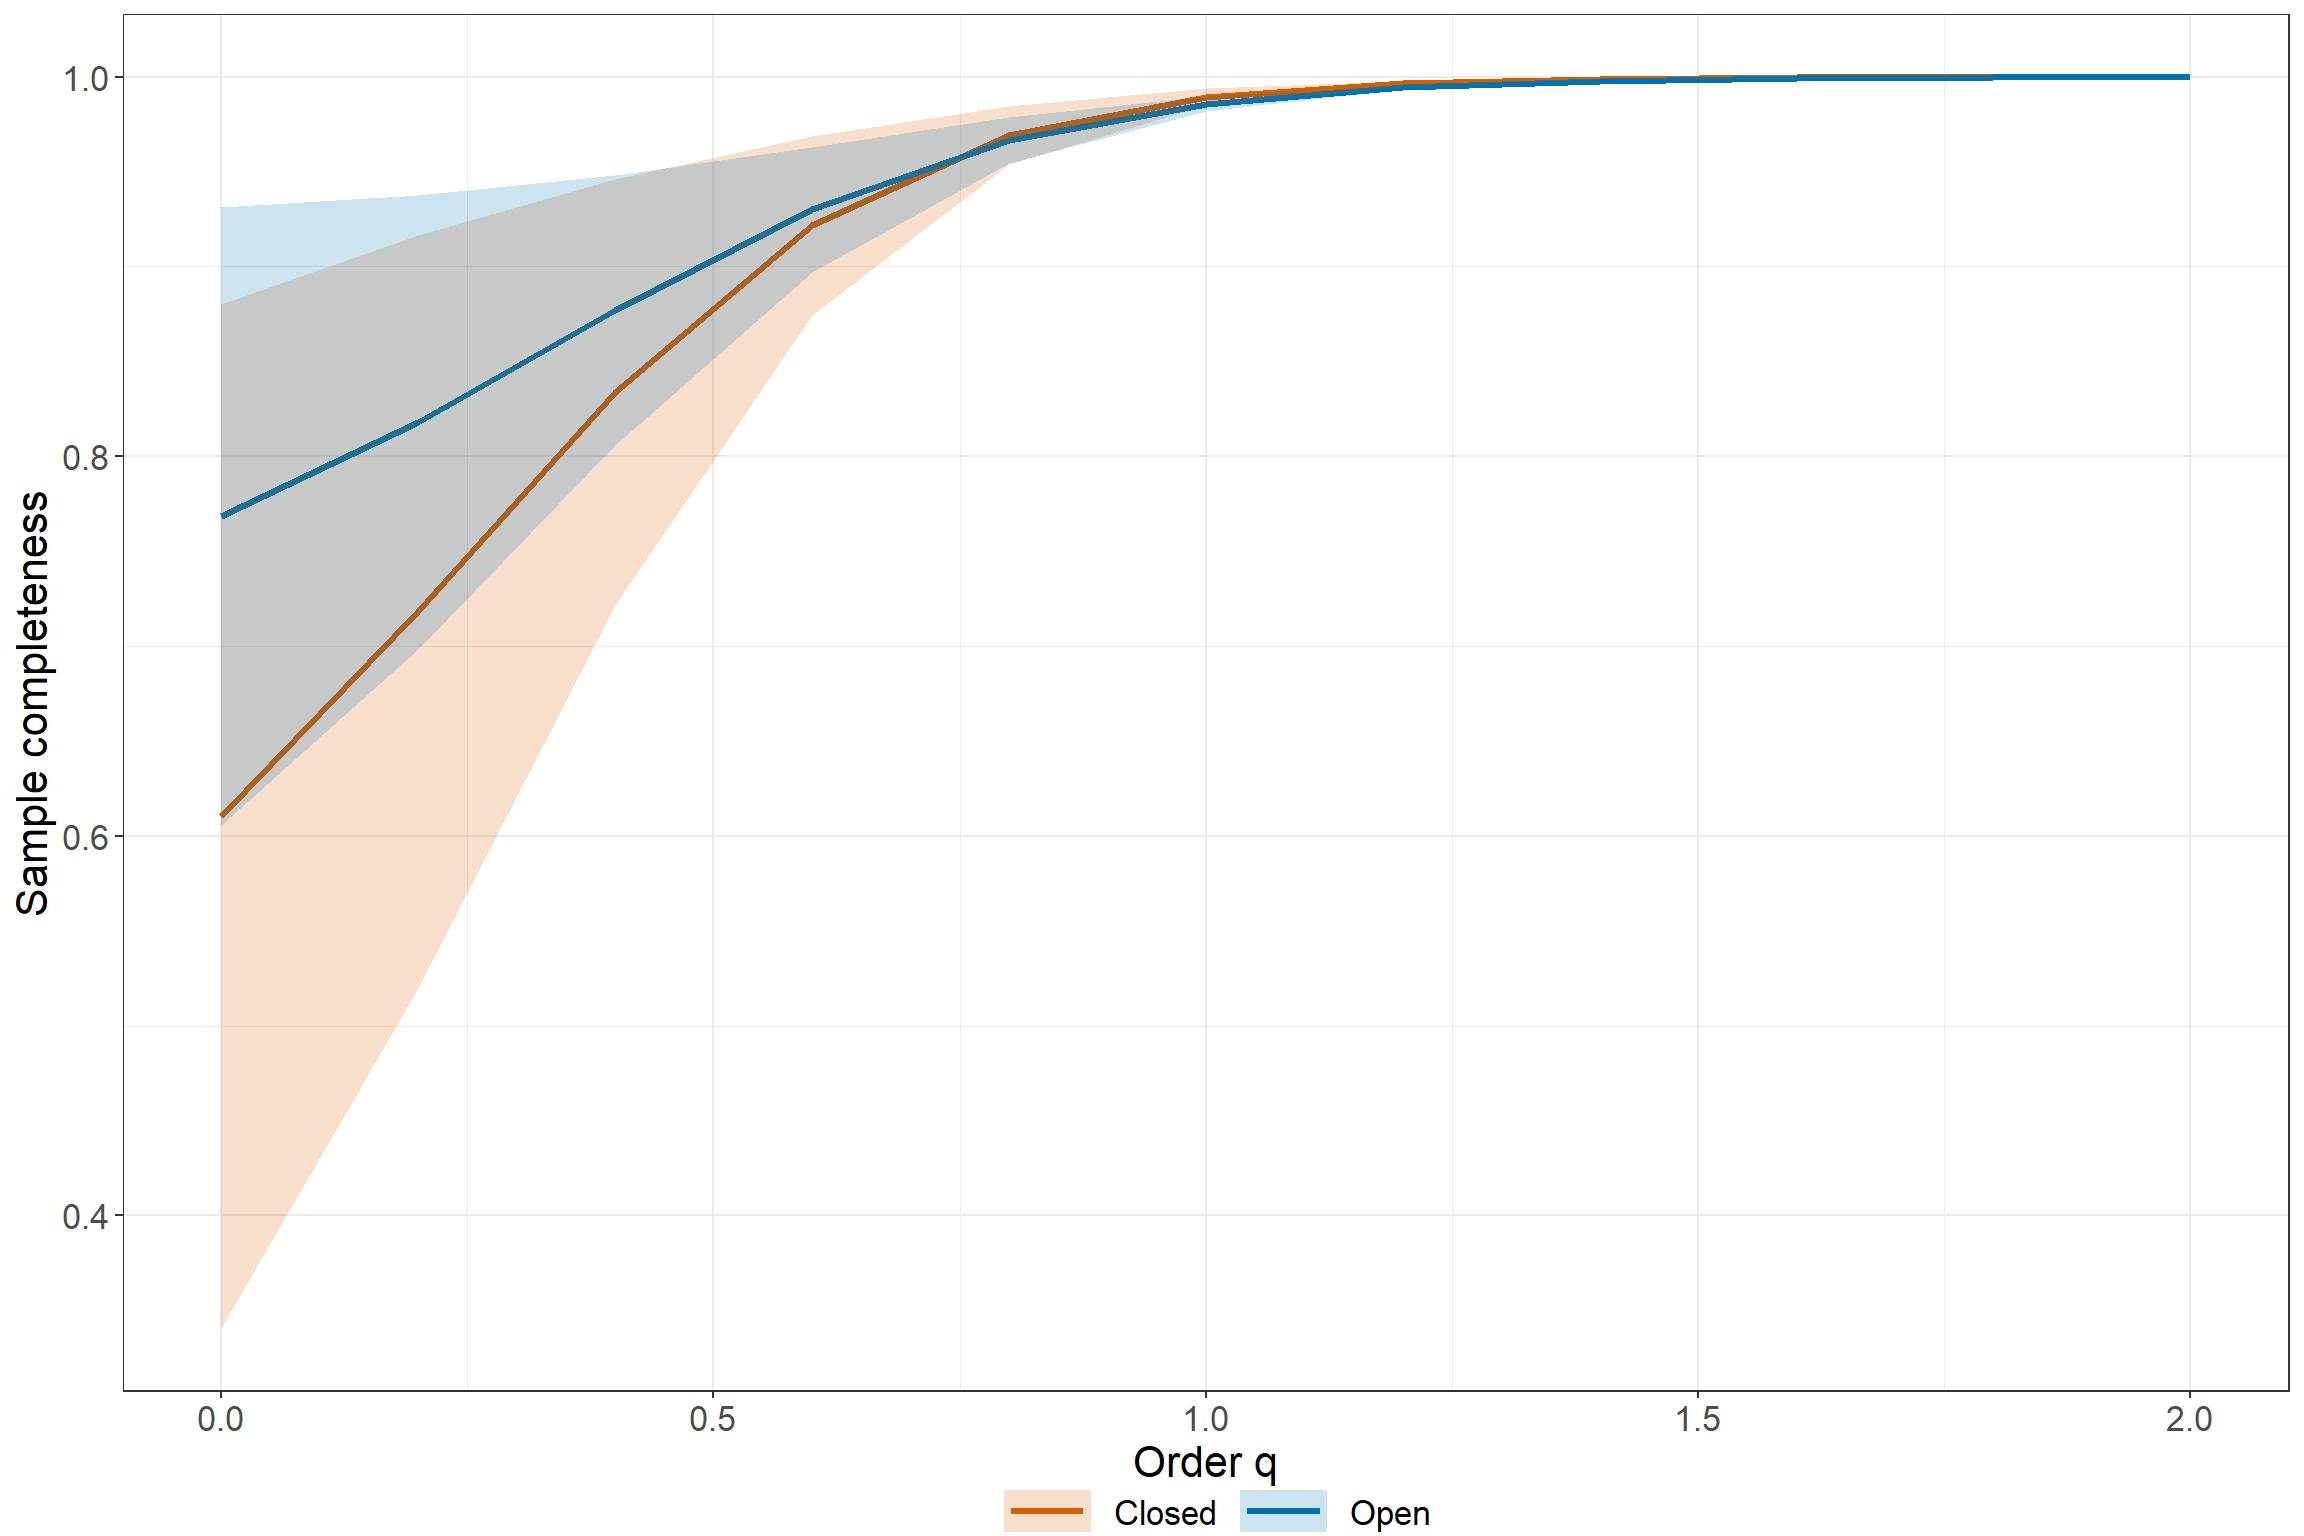
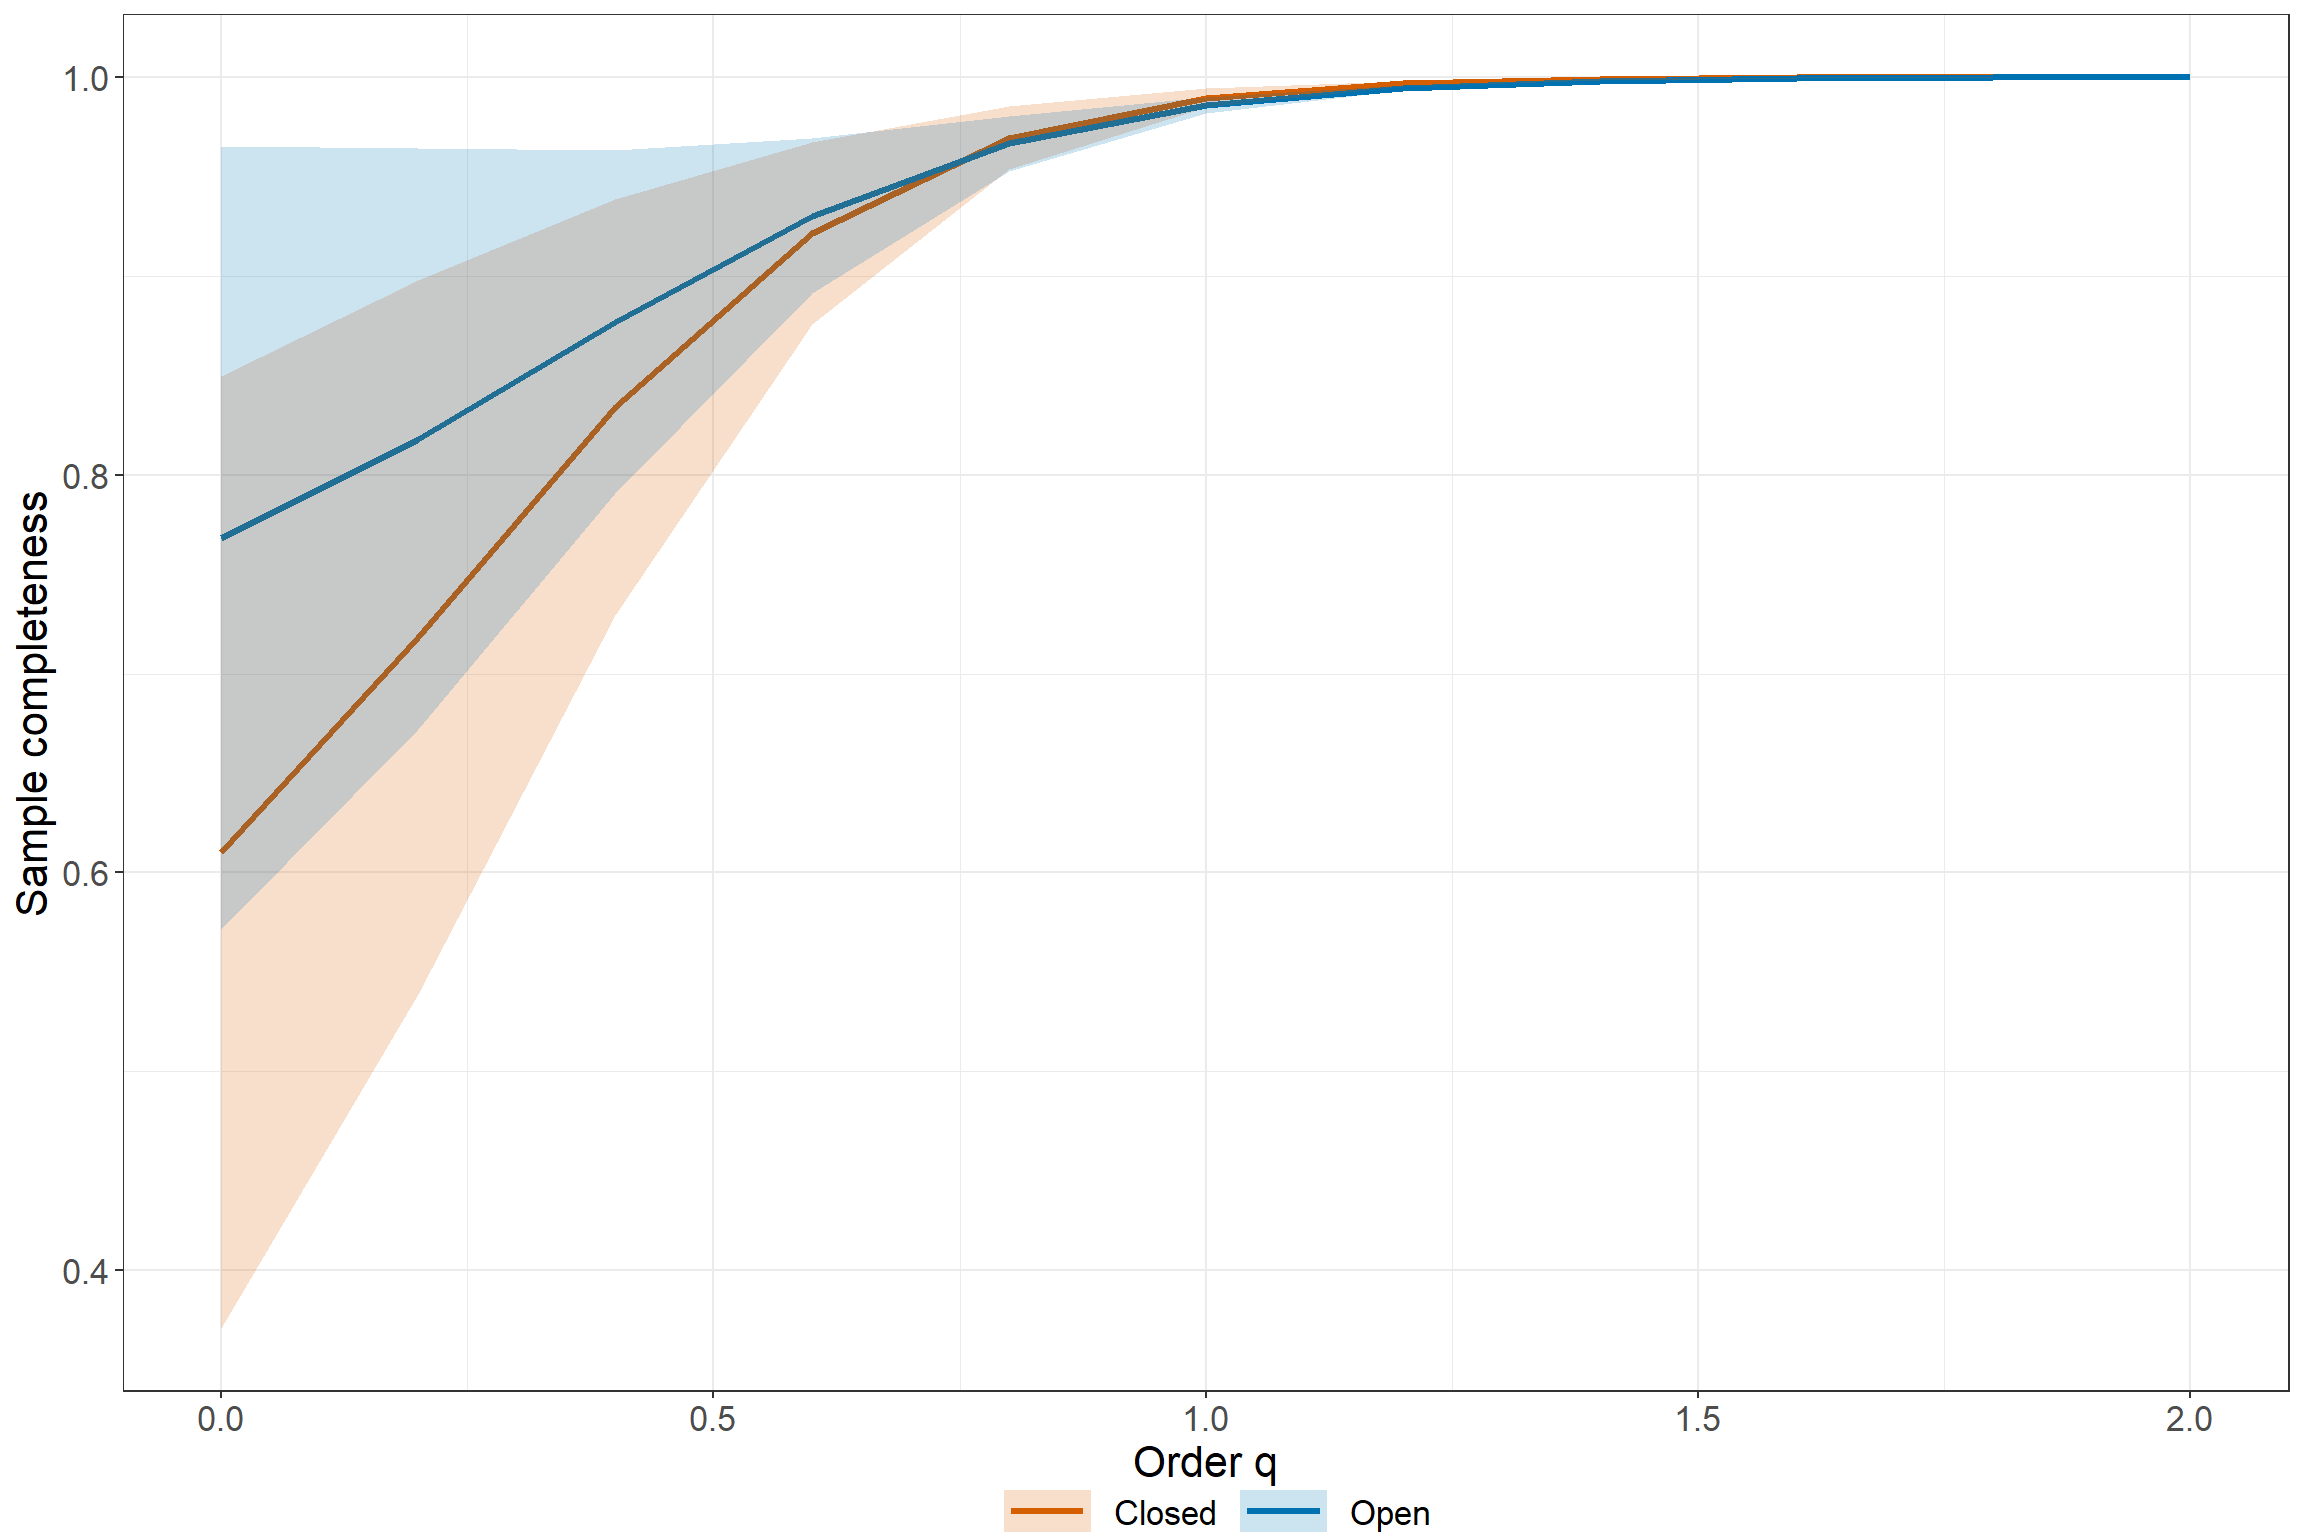
Update.

diff --git a/README.md b/README.md
@@ -3,7 +3,7 @@
 # iNEXT.4steps (R package)
 
 <h5 align="right">
-Latest version: 2024-01-08
+Latest version: 2024-01-09
 </h5>
 <font color="394CAE">
 <h3 color="394CAE" style="font-weight: bold">
@@ -12,7 +12,7 @@ User’s Guide
 </h3>
 </font> <br>
 <h5>
-<b>Anne Chao, Hu, K.-H.</b> <br><br> <i>Institute of Statistics,
+<b>Anne Chao, Kai-Hsiang Hu</b> <br><br> <i>Institute of Statistics,
 National Tsing Hua University, Hsin-Chu, Taiwan 30043</i>
 </h5>
 
@@ -441,12 +441,12 @@ $`STEP1. Sample completeness profiles`
 
 $`STEP2. Asymptotic analysis`
   Assemblage Taxonomic.Diversity Taxonomic.Observed Taxonomic.Estimator  s.e.   LCL    UCL
-1     Closed    Species richness              44.00               72.11 40.96 44.00 152.39
-2     Closed   Shannon diversity              10.04               10.30  0.40  9.51  11.09
-3     Closed   Simpson diversity               5.71                5.73  0.25  5.25   6.21
-4       Open    Species richness              74.00               96.31 17.02 74.00 129.66
-5       Open   Shannon diversity              16.34               16.84  0.49 15.88  17.80
-6       Open   Simpson diversity               9.41                9.46  0.28  8.90  10.01
+1     Closed    Species richness              44.00               72.11 28.54 44.00 128.04
+2     Closed   Shannon diversity              10.04               10.30  0.46  9.40  11.20
+3     Closed   Simpson diversity               5.71                5.73  0.26  5.21   6.25
+4       Open    Species richness              74.00               96.31 13.18 74.00 122.13
+5       Open   Shannon diversity              16.34               16.84  0.59 15.69  17.99
+6       Open   Simpson diversity               9.41                9.46  0.37  8.74  10.18
 
 $`STEP3. Non-asymptotic coverage-based rarefaction and extrapolation analysis`
   Cmax = 0.994 q = 0 q = 1 q = 2
@@ -514,12 +514,12 @@ $`STEP1. Sample completeness profiles`
 
 $`STEP2. Asymptotic analysis`
    Assemblage Taxonomic.Diversity Taxonomic.Observed Taxonomic.Estimator  s.e.    LCL    UCL
-1     Monsoon    Species richness             329.00              421.67 19.03 384.37 458.97
-2     Monsoon   Shannon diversity             145.65              150.15  1.81 146.61 153.69
-3     Monsoon   Simpson diversity             102.33              103.35  1.25 100.89 105.81
-4 Upper_cloud    Species richness             239.00              307.78 18.19 272.13 343.43
-5 Upper_cloud   Shannon diversity             105.53              110.50  2.12 106.35 114.64
-6 Upper_cloud   Simpson diversity              71.17               72.23  1.31  69.65  74.80
+1     Monsoon    Species richness             329.00              421.67 23.32 375.96 467.39
+2     Monsoon   Shannon diversity             145.65              150.15  1.89 146.44 153.86
+3     Monsoon   Simpson diversity             102.33              103.35  1.22 100.95 105.75
+4 Upper_cloud    Species richness             239.00              307.78 20.96 266.70 348.86
+5 Upper_cloud   Shannon diversity             105.53              110.50  2.20 106.19 114.81
+6 Upper_cloud   Simpson diversity              71.17               72.23  1.32  69.65  74.80
 
 $`STEP3. Non-asymptotic coverage-based rarefaction and extrapolation analysis`
   Cmax = 0.993  q = 0  q = 1  q = 2
@@ -557,11 +557,11 @@ $`STEP1. Sample completeness profiles`
 
 $`STEP2. Asymptotic analysis`
   Assemblage Phylogenetic.Diversity Phylogenetic.Observed Phylogenetic.Estimator s.e.   LCL   UCL Reftime   Type
-1       Edge               q = 0 PD                 61.29                  80.03 4.67 70.87 89.18     400 meanPD
-2       Edge               q = 1 PD                  5.25                   5.37 0.13  5.11  5.64     400 meanPD
-3       Edge               q = 2 PD                  1.80                   1.80 0.03  1.75  1.85     400 meanPD
-4   Interior               q = 0 PD                 69.32                  86.38 3.60 79.32 93.43     400 meanPD
-5   Interior               q = 1 PD                  5.72                   5.85 0.13  5.59  6.12     400 meanPD
+1       Edge               q = 0 PD                 61.29                  80.03 5.00 70.24 89.82     400 meanPD
+2       Edge               q = 1 PD                  5.25                   5.37 0.10  5.18  5.56     400 meanPD
+3       Edge               q = 2 PD                  1.80                   1.80 0.02  1.75  1.84     400 meanPD
+4   Interior               q = 0 PD                 69.32                  86.38 4.93 76.71 96.04     400 meanPD
+5   Interior               q = 1 PD                  5.72                   5.85 0.13  5.60  6.10     400 meanPD
 6   Interior               q = 2 PD                  1.91                   1.91 0.03  1.86  1.97     400 meanPD
 
 $`STEP3. Non-asymptotic coverage-based rarefaction and extrapolation analysis`
@@ -598,11 +598,11 @@ $`STEP1. Sample completeness profiles`
 
 $`STEP2. Asymptotic analysis`
   Assemblage Functional.Diversity Functional.Observed Functional.Estimator s.e.  LCL  UCL  Tau
-1       Edge q = 0 FD(single tau)                6.86                 6.86 0.19 6.86 7.24 0.35
-2       Edge q = 1 FD(single tau)                6.52                 6.52 0.13 6.27 6.78 0.35
-3       Edge q = 2 FD(single tau)                6.26                 6.26 0.11 6.04 6.48 0.35
-4   Interior q = 0 FD(single tau)                5.91                 5.91 0.07 5.91 6.05 0.35
-5   Interior q = 1 FD(single tau)                5.19                 5.19 0.09 5.02 5.37 0.35
+1       Edge q = 0 FD(single tau)                6.86                 6.86 0.21 6.86 7.27 0.35
+2       Edge q = 1 FD(single tau)                6.52                 6.52 0.14 6.25 6.80 0.35
+3       Edge q = 2 FD(single tau)                6.26                 6.26 0.12 6.03 6.49 0.35
+4   Interior q = 0 FD(single tau)                5.91                 5.91 0.06 5.91 6.04 0.35
+5   Interior q = 1 FD(single tau)                5.19                 5.19 0.08 5.03 5.36 0.35
 6   Interior q = 2 FD(single tau)                4.72                 4.72 0.10 4.52 4.91 0.35
 
 $`STEP3. Non-asymptotic coverage-based rarefaction and extrapolation analysis`
